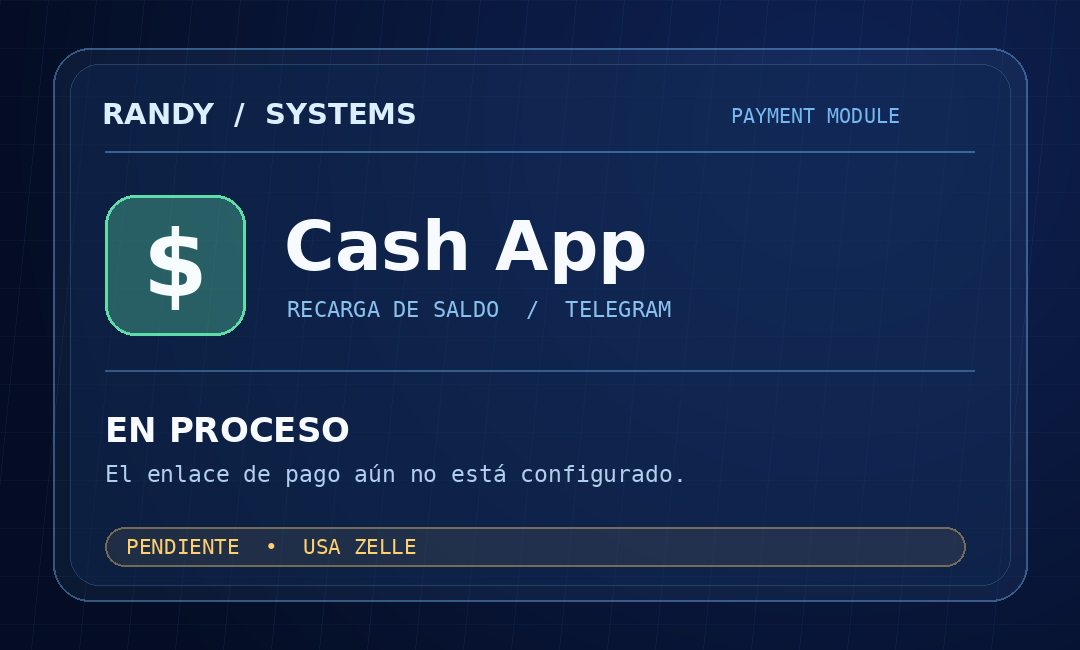
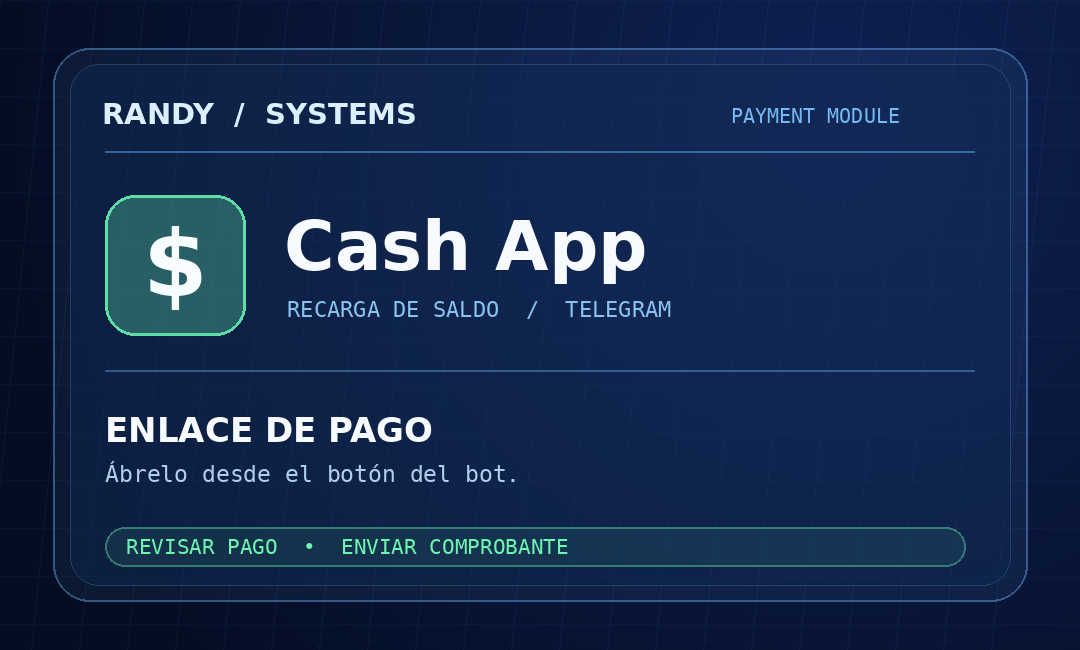
Enable Cash App and PayPal top-up links

diff --git a/telegram-reseller-bot/bot.py b/telegram-reseller-bot/bot.py
@@ -17,6 +17,7 @@ from datetime import datetime, timedelta, timezone
 from decimal import Decimal, InvalidOperation, ROUND_HALF_UP
 from functools import lru_cache
 from pathlib import Path
+from urllib.parse import urlparse
 from zoneinfo import ZoneInfo
 
 from telegram import InlineKeyboardButton, InlineKeyboardMarkup, KeyboardButton, MessageEntity, ReplyKeyboardMarkup, Update
@@ -430,7 +431,8 @@ async def show_topups(update: Update) -> None:
         return
     for item in rows:
         tag = f"@{item['username']}" if item["username"] else item["full_name"]
-        text = f"💳 <b>Recarga #{item['id']}</b>\nUsuario: {html.escape(tag)}\nCantidad: <b>{money(item['amount_cents'])}</b>"
+        method = {"zelle": "Zelle", "cashapp": "Cash App", "paypal": "PayPal"}.get(item["payment_method"], "No indicado")
+        text = f"💳 <b>Recarga #{item['id']}</b>\nUsuario: {html.escape(tag)}\nMétodo: <b>{method}</b>\nCantidad: <b>{money(item['amount_cents'])}</b>"
         keys = InlineKeyboardMarkup([[
             InlineKeyboardButton("✅ Aprobar", callback_data=f"topup:approve:{item['id']}"),
             InlineKeyboardButton("❌ Rechazar", callback_data=f"topup:reject:{item['id']}"),
@@ -755,19 +757,32 @@ async def begin_topup(update: Update, context: ContextTypes.DEFAULT_TYPE) -> Non
     await update.effective_message.reply_text("💳 Escribe la cantidad que deseas recargar. Ejemplo: <code>25.00</code>", parse_mode=ParseMode.HTML)
 
 
+def payment_url(method: str) -> str:
+    value, allowed_host = {
+        "cashapp": (settings.cash_app_url, "cash.app"),
+        "paypal": (settings.paypal_url, "paypal.me"),
+    }.get(method, ("", ""))
+    parsed = urlparse(value)
+    return value if parsed.scheme == "https" and parsed.hostname in (allowed_host, f"www.{allowed_host}") else ""
+
+
+def payment_ready(method: str) -> bool:
+    return (bool(settings.zelle_number and settings.zelle_holder)
+            if method == "zelle" else bool(payment_url(method)))
+
+
 def payment_methods_keyboard() -> InlineKeyboardMarkup:
-    zelle_ready = bool(settings.zelle_number and settings.zelle_holder)
     return InlineKeyboardMarkup([
-        [InlineKeyboardButton("💜 Zelle · disponible" if zelle_ready else "💜 Zelle · pendiente", callback_data="pay:method:zelle")],
-        [InlineKeyboardButton("💚 Cash App · pendiente", callback_data="pay:method:cashapp")],
-        [InlineKeyboardButton("💙 PayPal · pendiente", callback_data="pay:method:paypal")],
+        [InlineKeyboardButton(f"💜 Zelle · {'disponible' if payment_ready('zelle') else 'pendiente'}", callback_data="pay:method:zelle")],
+        [InlineKeyboardButton(f"💚 Cash App · {'disponible' if payment_ready('cashapp') else 'pendiente'}", callback_data="pay:method:cashapp")],
+        [InlineKeyboardButton(f"💙 PayPal · {'disponible' if payment_ready('paypal') else 'pendiente'}", callback_data="pay:method:paypal")],
     ])
 
 
 async def show_payment_method(query, context: ContextTypes.DEFAULT_TYPE, method: str) -> None:
     flow = context.user_data.get("flow", {})
     amount = money(flow["amount_cents"])
-    if method == "zelle" and settings.zelle_number and settings.zelle_holder:
+    if method == "zelle" and payment_ready(method):
         details = (
             "💜 <b>RANDY SYSTEMS | ZELLE</b>\n"
             f"💰 Recarga: <b>{amount}</b>\n\n"
@@ -777,6 +792,20 @@ async def show_payment_method(query, context: ContextTypes.DEFAULT_TYPE, method:
             "El saldo se agrega cuando el administrador lo apruebe."
         )
         buttons = InlineKeyboardMarkup([
+            [InlineKeyboardButton("📎 Enviar comprobante", callback_data="pay:proof")],
+            [InlineKeyboardButton("⬅ Otros métodos", callback_data="pay:methods")],
+        ])
+    elif payment_ready(method):
+        name = "Cash App" if method == "cashapp" else "PayPal"
+        url = payment_url(method)
+        details = (f"💳 <b>RANDY SYSTEMS | {name}</b>\n"
+                   f"💰 Recarga: <b>{amount}</b>\n\n"
+                   f"🔗 <a href=\"{html.escape(url, quote=True)}\">Abrir enlace de pago</a>\n\n"
+                   "Comprueba el destinatario y el importe antes de pagar. "
+                   "Después envía tu comprobante para revisión del administrador; "
+                   "el saldo no se acredita automáticamente.")
+        buttons = InlineKeyboardMarkup([
+            [InlineKeyboardButton(f"🔗 Abrir {name}", url=url)],
             [InlineKeyboardButton("📎 Enviar comprobante", callback_data="pay:proof")],
             [InlineKeyboardButton("⬅ Otros métodos", callback_data="pay:methods")],
         ])
@@ -1443,8 +1472,10 @@ async def handle_flow(update: Update, context: ContextTypes.DEFAULT_TYPE) -> boo
             await message.reply_text("❌ Envía una imagen, documento o referencia escrita.")
             return True
         topup_id = db.create_topup(
-            message.from_user.id, flow["amount_cents"], proof_type, proof, proof_blob, proof_name
+            message.from_user.id, flow["amount_cents"], proof_type, proof, proof_blob, proof_name,
+            payment_method=flow.get("method", "unknown"),
         )
+        method = {"zelle": "Zelle", "cashapp": "Cash App", "paypal": "PayPal"}.get(flow.get("method"), "No indicado")
         context.user_data.pop("flow", None)
         await message.reply_text(f"✅ Recarga #{topup_id} enviada. Espera la aprobación del Admin.", reply_markup=USER_MENU)
         item = db.topup(topup_id)
@@ -1452,7 +1483,7 @@ async def handle_flow(update: Update, context: ContextTypes.DEFAULT_TYPE) -> boo
             InlineKeyboardButton("✅ Aprobar", callback_data=f"topup:approve:{topup_id}"),
             InlineKeyboardButton("❌ Rechazar", callback_data=f"topup:reject:{topup_id}"),
         ]])
-        caption = f"💳 <b>Nueva recarga #{topup_id}</b>\nUsuario: <code>{item['user_id']}</code>\nCantidad: <b>{money(item['amount_cents'])}</b>"
+        caption = f"💳 <b>Nueva recarga #{topup_id}</b>\nUsuario: <code>{item['user_id']}</code>\nMétodo: <b>{method}</b>\nCantidad: <b>{money(item['amount_cents'])}</b>"
         for admin_id in set(settings.admin_ids) | set(db.admin_ids()):
             try:
                 if proof_type == "photo":
@@ -1599,13 +1630,13 @@ async def callback(update: Update, context: ContextTypes.DEFAULT_TYPE) -> None:
         await query.answer()
         if data == "pay:methods":
             await query.message.reply_text("💳 Elige tu método:", reply_markup=payment_methods_keyboard())
-        elif data == "pay:proof" and flow.get("method") == "zelle" and settings.zelle_number and settings.zelle_holder:
+        elif data == "pay:proof" and payment_ready(flow.get("method", "")):
             flow["name"] = "topup_proof"
-            await query.message.reply_text("📎 Envía la captura/documento de Zelle o escribe la referencia de pago.")
+            await query.message.reply_text("📎 Envía una captura/documento del pago o escribe la referencia.")
         elif data.startswith("pay:method:"):
             method = data.split(":", 2)[2]
             if method in ("zelle", "cashapp", "paypal"):
-                flow["method"] = method if method == "zelle" and settings.zelle_number and settings.zelle_holder else None
+                flow["method"] = method if payment_ready(method) else None
                 await show_payment_method(query, context, method)
         return
 

diff --git a/telegram-reseller-bot/tests/test_payment_methods.py b/telegram-reseller-bot/tests/test_payment_methods.py
@@ -1,5 +1,6 @@
 import os
 import unittest
+from dataclasses import replace
 from types import SimpleNamespace
 from unittest.mock import AsyncMock, patch
 
@@ -42,6 +43,26 @@ class PaymentMethodTests(unittest.IsolatedAsyncioTestCase):
             await bot.callback(SimpleNamespace(callback_query=query), context)
         self.assertEqual(context.user_data["flow"]["name"], "topup_method")
         query.message.reply_text.assert_not_awaited()
+
+    async def test_cash_app_link_opens_payment_and_accepts_proof(self):
+        query = SimpleNamespace(data="pay:method:cashapp", from_user=SimpleNamespace(id=2),
+                                answer=AsyncMock(), message=SimpleNamespace(reply_photo=AsyncMock(), reply_text=AsyncMock()))
+        context = SimpleNamespace(user_data={"flow": {"name": "topup_method", "amount_cents": 2500}})
+        configured = replace(bot.settings, cash_app_url="https://cash.app/$SampleAccount")
+        with patch.object(bot, "settings", configured), \
+             patch.object(bot, "current_user", return_value={"role": "reseller"}), \
+             patch.object(bot, "panel", return_value="reseller"):
+            await bot.callback(SimpleNamespace(callback_query=query), context)
+            buttons = query.message.reply_photo.await_args.kwargs["reply_markup"].inline_keyboard
+            self.assertEqual(buttons[0][0].url, "https://cash.app/$SampleAccount")
+            self.assertEqual(buttons[1][0].callback_data, "pay:proof")
+            query.data = "pay:proof"
+            await bot.callback(SimpleNamespace(callback_query=query), context)
+        self.assertEqual(context.user_data["flow"]["name"], "topup_proof")
+
+    def test_payment_link_rejects_other_hosts(self):
+        with patch.object(bot, "settings", replace(bot.settings, paypal_url="https://paypal.me.bad.example/user")):
+            self.assertFalse(bot.payment_ready("paypal"))
 
 
 if __name__ == "__main__":

diff --git a/telegram-reseller-bot/database.py b/telegram-reseller-bot/database.py
@@ -279,6 +279,8 @@ class Database:
                 con.execute("ALTER TABLE topups ADD COLUMN proof_blob BLOB")
             if "proof_name" not in topup_columns:
                 con.execute("ALTER TABLE topups ADD COLUMN proof_name TEXT")
+            if "payment_method" not in topup_columns:
+                con.execute("ALTER TABLE topups ADD COLUMN payment_method TEXT NOT NULL DEFAULT 'unknown'")
 
             product_columns = {row["name"] for row in con.execute("PRAGMA table_info(products)")}
             if "duration_days" not in product_columns:
@@ -679,15 +681,16 @@ class Database:
         return added, len(clean) - added
 
     def create_topup(self, user_id: int, amount_cents: int, proof_type: str, proof_value: str,
-                     proof_blob: bytes | None = None, proof_name: str | None = None) -> int:
+                     proof_blob: bytes | None = None, proof_name: str | None = None,
+                     payment_method: str = "unknown") -> int:
         with self.transaction() as con:
             row = con.execute("SELECT role FROM users WHERE telegram_id=?", (user_id,)).fetchone()
             if not row or row["role"] not in ("reseller", "admin"):
                 raise NotApproved("Usuario no aprobado")
             cur = con.execute(
-                """INSERT INTO topups(user_id,amount_cents,proof_type,proof_value,created_at,proof_blob,proof_name)
-                   VALUES(?,?,?,?,?,?,?)""",
-                (user_id, amount_cents, proof_type, proof_value, utcnow(), proof_blob, proof_name),
+                """INSERT INTO topups(user_id,amount_cents,proof_type,proof_value,created_at,proof_blob,proof_name,payment_method)
+                   VALUES(?,?,?,?,?,?,?,?)""",
+                (user_id, amount_cents, proof_type, proof_value, utcnow(), proof_blob, proof_name, payment_method),
             )
             return int(cur.lastrowid)
 

diff --git a/telegram-reseller-bot/config.py b/telegram-reseller-bot/config.py
@@ -29,6 +29,8 @@ class Settings:
     support_username: str
     zelle_number: str
     zelle_holder: str
+    cash_app_url: str
+    paypal_url: str
     key_api_url: str
     key_api_token: str
     zentry_base_url: str
@@ -71,6 +73,8 @@ def load_settings() -> Settings:
         support_username=os.getenv("SUPPORT_USERNAME", "@Randy_zt").strip(),
         zelle_number=os.getenv("ZELLE_NUMBER", "").strip(),
         zelle_holder=os.getenv("ZELLE_HOLDER", "").strip(),
+        cash_app_url=os.getenv("CASH_APP_URL", "").strip(),
+        paypal_url=os.getenv("PAYPAL_URL", "").strip(),
         key_api_url=os.getenv("KEY_API_URL", "").strip(),
         key_api_token=os.getenv("KEY_API_TOKEN", "").strip(),
         zentry_base_url=os.getenv("ZENTRY_BASE_URL", "https://api.zentryauth.com").strip().rstrip("/"),

diff --git a/telegram-reseller-bot/tests/test_database.py b/telegram-reseller-bot/tests/test_database.py
@@ -75,6 +75,12 @@ class DatabaseTests(unittest.TestCase):
         self.assertFalse(second)
         self.assertEqual(self.db.user(2)["balance_cents"], 1200)
 
+    def test_topup_payment_method_survives_restart(self):
+        topup = self.db.create_topup(2, 1200, "text", "proof", payment_method="paypal")
+        restarted = Database(self.db.path)
+        restarted.initialize()
+        self.assertEqual(restarted.topup(topup)["payment_method"], "paypal")
+
     def test_insufficient_balance_does_not_consume_key(self):
         self.db.add_keys(self.product, ["SAFE-KEY"])
         with self.assertRaises(InsufficientBalance):

diff --git a/telegram-reseller-bot/README.md b/telegram-reseller-bot/README.md
@@ -8,7 +8,7 @@ Dos bots de Telegram conectados al mismo inventario: uno privado para el Admin y
 - Bot Admin privado y bot de revendedores completamente separados.
 - Productos con emojis y emoticones; edición de nombre, precio, duración, descripción e instrucciones sin borrar keys ni precios especiales.
 - Carga masiva de keys, una por línea, con bloqueo de duplicados.
-- Recargas manuales con selección visual de método, comprobante y aprobación/rechazo del Admin. Zelle se activa mediante variables privadas de Render; Cash App y PayPal se muestran pendientes hasta que se proporcionen los enlaces oficiales.
+- Recargas manuales con selección visual de método, enlaces de pago configurables, comprobante y aprobación/rechazo del Admin. Los tres métodos se activan mediante variables privadas de Render.
 - Entrega automática de una sola key después de descontar el saldo.
 - Duración configurable por producto y cuenta regresiva en **Mis keys**.
 - Foto, sticker animado y archivo descargable por producto.
@@ -42,6 +42,8 @@ STORE_NAME=RANDY RESELLER SYSTEMS
 SUPPORT_USERNAME=@Randy_zt
 ZELLE_NUMBER=tu_numero_zelle
 ZELLE_HOLDER=tu_titular_zelle
+CASH_APP_URL=https://cash.app/\$tu_usuario
+PAYPAL_URL=https://www.paypal.me/tu_usuario
 DATABASE_PATH=data/reseller.db
 KEY_API_URL=https://tu-api.example.com/eventos
 KEY_API_TOKEN=token_opcional_del_api
@@ -75,7 +77,7 @@ python bot.py
 - En **Control keys**, el Admin puede consultar, resetear HWID, bloquear o desbloquear una licencia.
 - Un usuario nuevo pulsa **Solicitar acceso**.
 - El Admin recibe **Aprobar / Rechazar**.
-- El revendedor indica el importe, elige Zelle y ve la tarjeta con los datos de pago; después envía su comprobante. Cash App y PayPal indican que están pendientes y no aceptan comprobantes.
+- El revendedor indica el importe, elige Zelle, Cash App o PayPal y ve la tarjeta con los datos o el enlace; después envía el comprobante. Los métodos sin configurar aparecen pendientes y no aceptan comprobantes.
 - Tras la aprobación, compra un producto y recibe la key inmediatamente.
 - En **Certificado iOS**, una compra de $3.50 genera una key interna y comienza el pedido automático del plan ChungChi configurado.
 - **Use Key** permite retomar una key no usada y **Check UDID** consulta solamente los pedidos del usuario actual.
